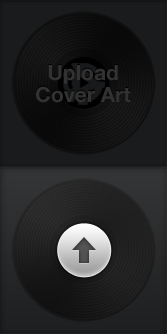
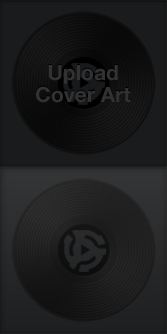
cover art upload

Changed region(s): [[0.3293, 0.6587, 0.6886, 0.8383]]

diff --git a/c/style.css b/c/style.css
@@ -387,8 +387,12 @@ body.cpanel{overflow-y:hidden}
 .popup.album-settings .content ul.rows li.row.cover-art .help{position:absolute;bottom:9px;left:7px;top:auto;}
 .popup.album-settings .content ul.rows li.row.cover-art .help .ui-tooltip-bottom{right:auto;left:-15px;}
 .popup.album-settings .content ul.rows li.row.cover-art .help .ui-tooltip-bottom:after{left:-90px}
-.popup.album-settings .content ul.rows li.row.cover-art .upload-cover-art{height:167px;width:167px;text-indent:-99999em;overflow:hidden;text-align:left;-webkit-box-shadow:rgba(255,255,255,0.07) 0 1px 0;-moz-box-shadow:rgba(255,255,255,0.07) 0 1px 0;box-shadow:rgba(255,255,255,0.07) 0 1px 0;position:absolute;top:8px;right:9px;cursor:pointer;background:url("../i/popups/cover-art.png");}
-.popup.album-settings .content ul.rows li.row.cover-art .upload-cover-art:hover{background-position:0 -167px}
+.popup.album-settings .content ul.rows li.row.cover-art .upload-cover-art{height:167px;width:167px;text-indent:-99999em;overflow:hidden;text-align:left;-webkit-box-shadow:rgba(255,255,255,0.07) 0 1px 0;-moz-box-shadow:rgba(255,255,255,0.07) 0 1px 0;box-shadow:rgba(255,255,255,0.07) 0 1px 0;position:absolute;top:8px;right:9px;background:url("../i/popups/cover-art.png");}
+.popup.album-settings .content ul.rows li.row.cover-art .upload-cover-art a.upload{display:block;background:url("../i/popups/cover-art-upload.png");height:80px;width:80px;margin:43px;opacity:0;filter:progid:DXImageTransform.Microsoft.Alpha(Opacity=0);text-indent:-99999em;overflow:hidden;text-align:left;}
+.popup.album-settings .content ul.rows li.row.cover-art .upload-cover-art a.upload:hover{background-position:0 -80px}
+.popup.album-settings .content ul.rows li.row.cover-art .upload-cover-art a.upload:active{background-position:0 -160px}
+.popup.album-settings .content ul.rows li.row.cover-art .upload-cover-art:hover{background-position:0 -167px;}
+.popup.album-settings .content ul.rows li.row.cover-art .upload-cover-art:hover a.upload{opacity:1;filter:progid:DXImageTransform.Microsoft.Alpha(Opacity=100)}
 .popup.album-settings .content ul.rows li.row.short{width:272px;margin-bottom:8px}
 .popup.textarea .content ul.rows{padding-right:0;}
 .popup.textarea .content ul.rows li.row label{left:11px}

diff --git a/cpanel.html b/cpanel.html
@@ -124,7 +124,7 @@
         </div>
       <li class="row cover-art">
         <div class="light"></div>
-        <div class="upload-cover-art">Upload Cover Art</div>
+        <div class="upload-cover-art"><a class="upload" href="#">Upload Cover Art</a></div>
         <div class="help">
           <span class="icon">?</span>
           <span class="ui-tooltip-bottom">Upload the Album cover image. The image size should be at least 195 pixels by 195 pixels and square.</span>
